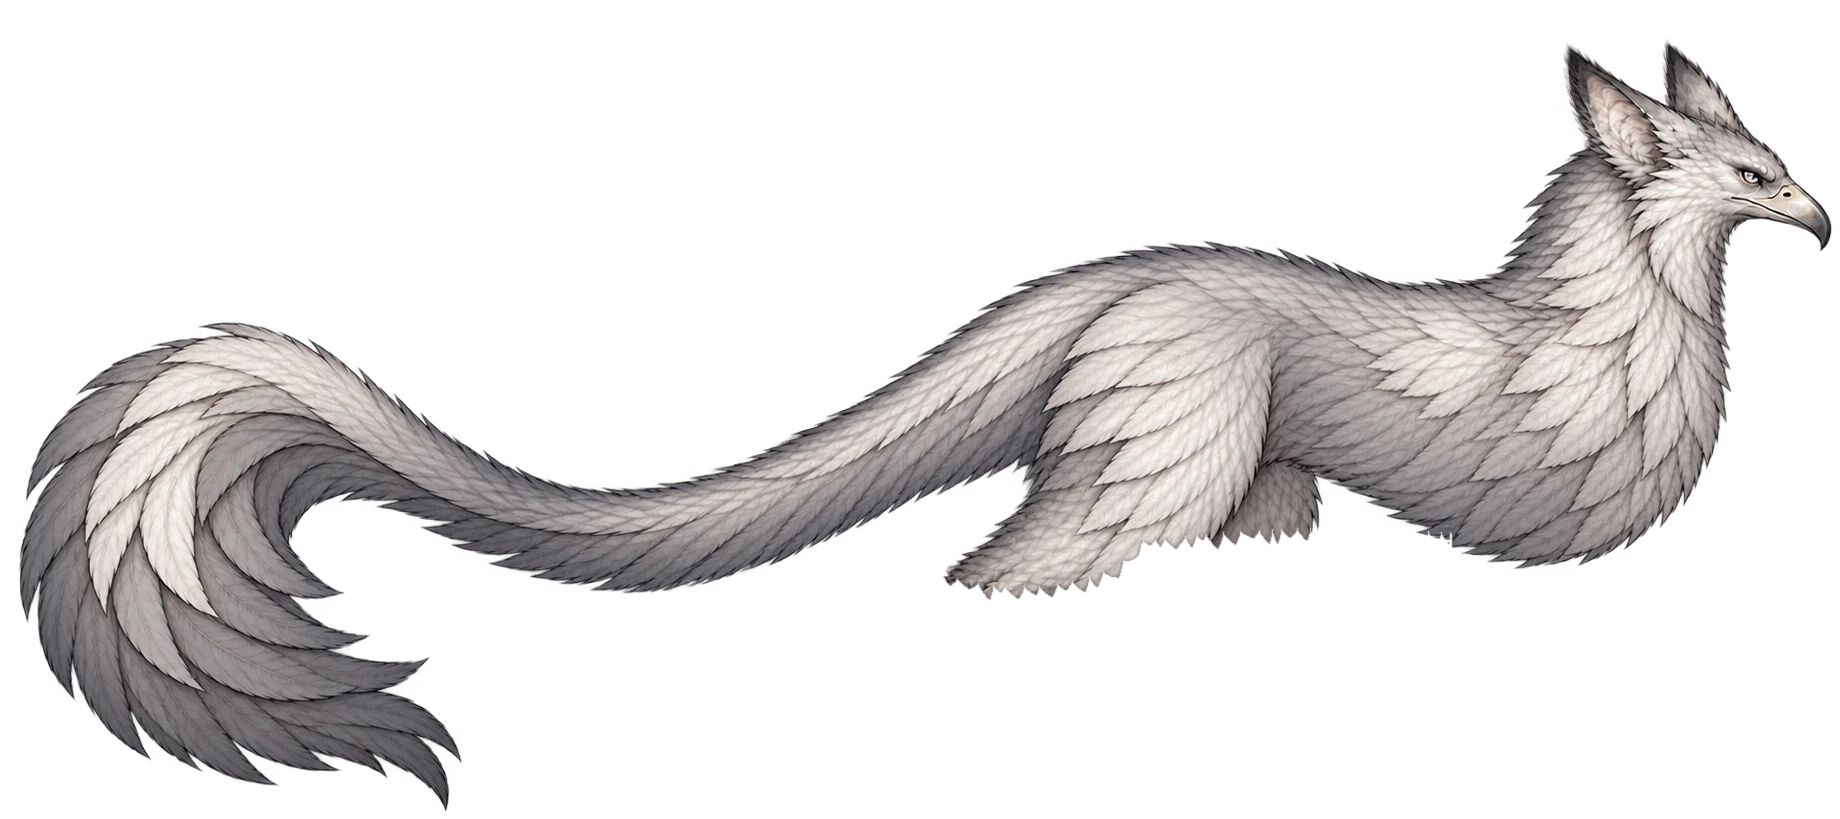
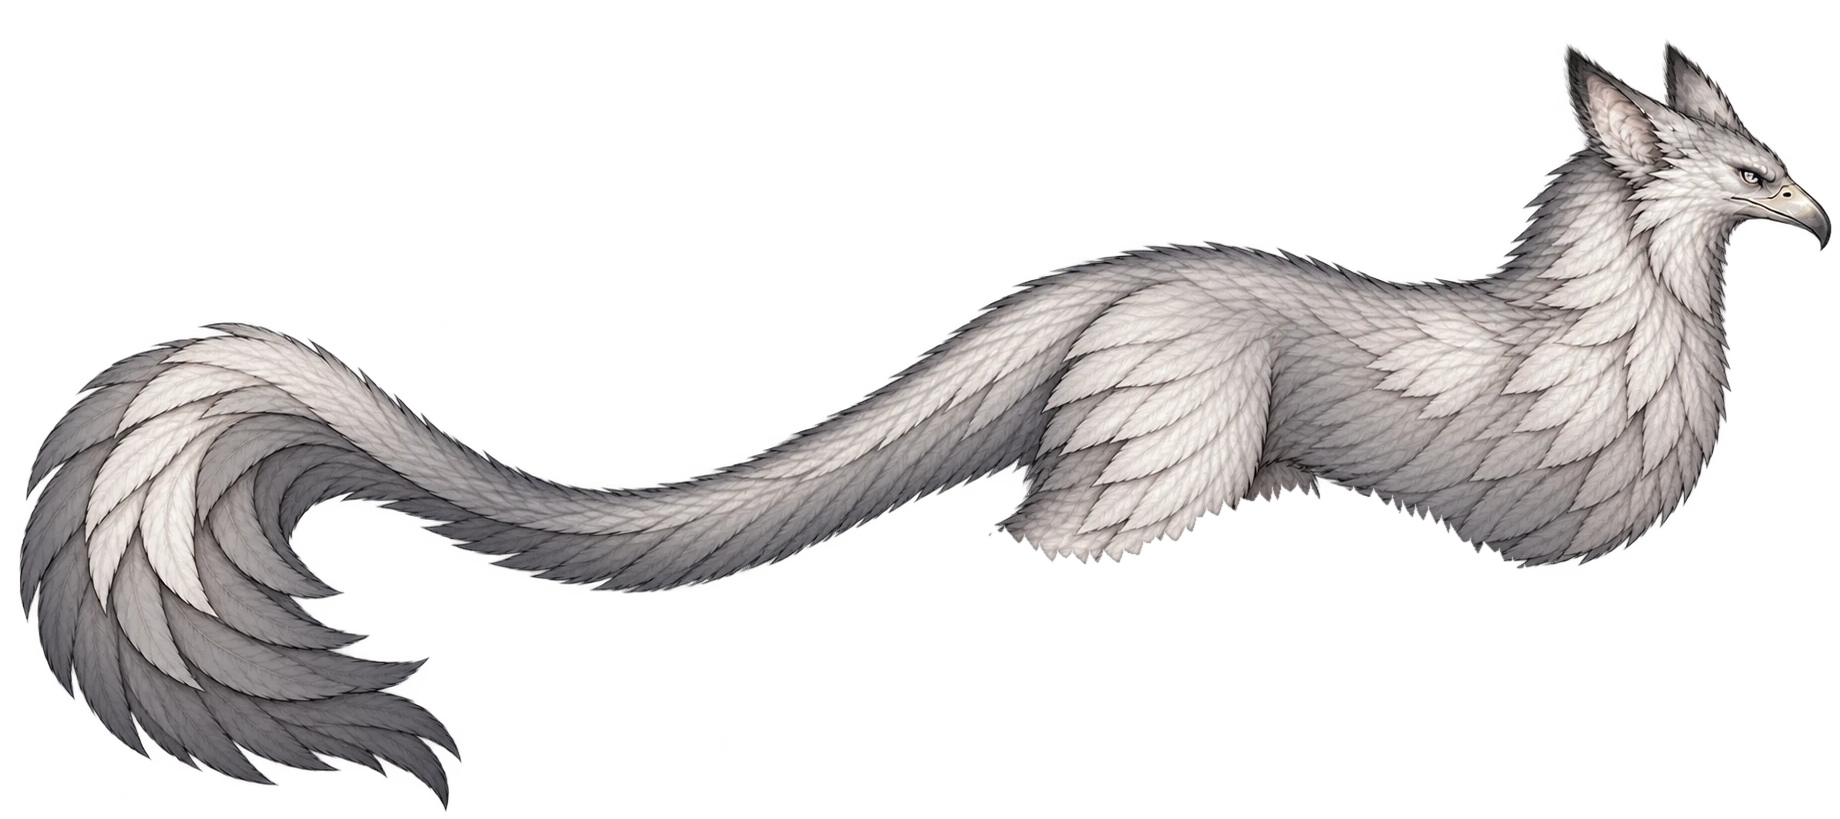
Akssians: legless base body (smooth lower contour), sprite-shape references
Claude-Session: https://claude.ai/code/session_01YCWNLtj9zFsogxZeNiDKcG

Changed region(s): [[0.6196, 0.58, 0.8054, 0.6716], [0.4957, 0.641, 0.6196, 0.7326], [0.8054, 0.6716, 0.8364, 0.7021]]

diff --git a/Акссийцы-арт/cut_legs.py b/Акссийцы-арт/cut_legs.py
@@ -26,13 +26,17 @@ def cut_below(xs, base_of):
         yb = base_of(x) + tips(x)
         y0 = int(yb)
         if y0 < H: keep[max(0, y0):, x] = 0
-# near leg: rounded thigh
-cx, rx, top, depth = 1020, 122, 548, 58
-cut_below(range(cx - rx, cx + rx), lambda x: top + depth * math.sqrt(max(0.0, 1 - ((x - cx) / rx) ** 2)))
-# far leg: belly line from thigh to chest
-x0, x1 = 1140, 1452
-cut_below(range(x0, x1), lambda x: 560 + (552 - 560) * (x - x0) / (x1 - x0) - 8 * math.sin((x - x0) / (x1 - x0) * math.pi))
-keep[640:, 860:1470] = 0
+# no legs at all: one smooth lower contour from the tail root over a rounded haunch, a tucked waist, to the chest
+pts=[(950,505),(1000,545),(1060,570),(1120,568),(1170,550),(1225,518),(1295,502),(1365,506),(1420,524),(1480,560),(1535,586)]
+def curve(x):
+    for (xa,ya),(xb,yb) in zip(pts,pts[1:]):
+        if xa<=x<=xb:
+            u=(x-xa)/(xb-xa); u=u*u*(3-2*u)
+            return ya+(yb-ya)*u
+    return None
+cut_below(range(pts[0][0], pts[-1][0]), curve)
+keep[600:, 860:1540] = 0
+keep[548:, 860:955] = 0
 # soft, anti-aliased edge
 m = Image.fromarray((keep * 255).astype(np.uint8)).filter(ImageFilter.GaussianBlur(0.7))
 k = np.asarray(m) / 255.0
